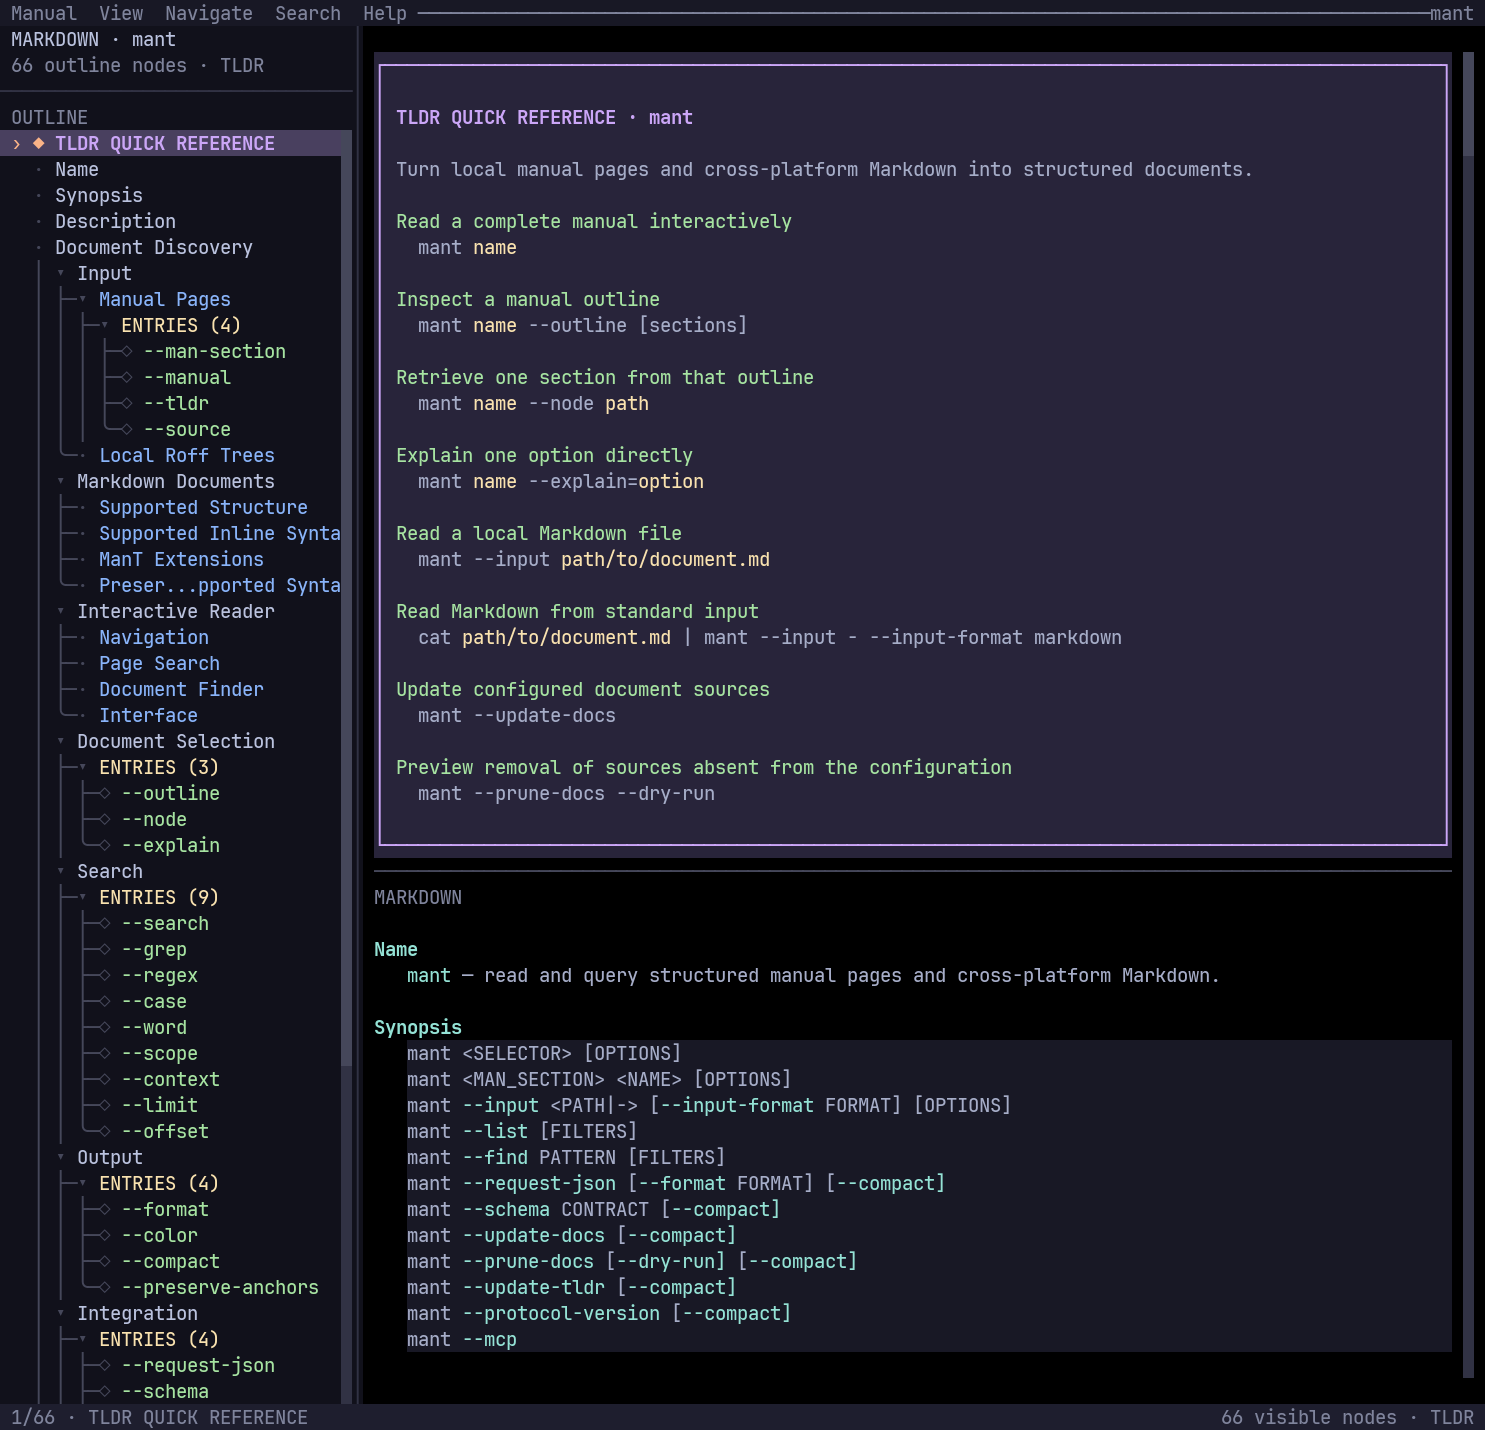
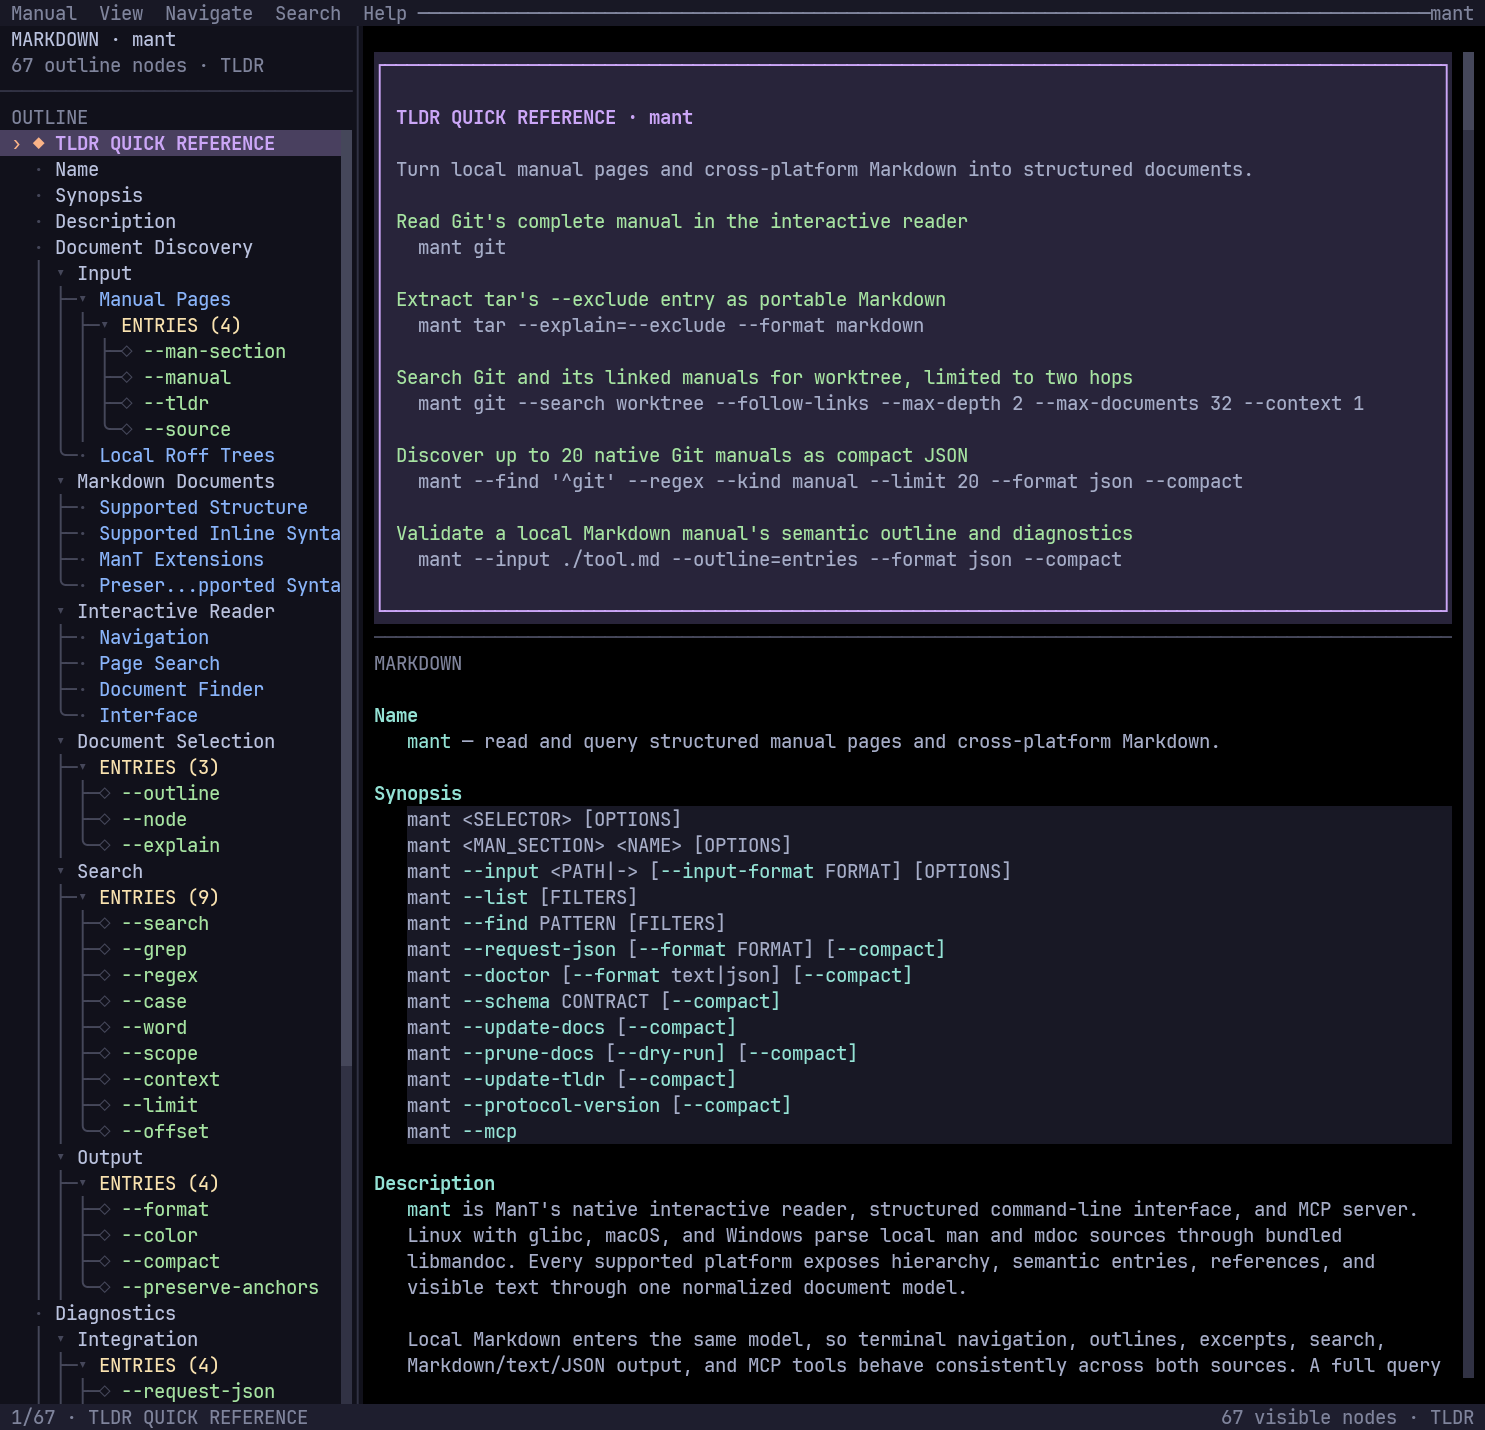
docs(manuals): streamline self-hosted guidance

diff --git a/crates/mant-engine/tests/self_manuals.rs b/crates/mant-engine/tests/self_manuals.rs
@@ -4,7 +4,7 @@ use mant_engine::{
     build_outline_with_detail, query_markdown_text, render_markdown, render_query_text,
     select_excerpt,
 };
-use mant_ir::{TldrCommandPart, TldrOrigin};
+use mant_ir::TldrOrigin;
 use mant_protocol::{ExcerptSelection, OutlineDetail, OutlineNode};
 use pulldown_cmark::{CodeBlockKind, Event, Parser, Tag, TagEnd};
 
@@ -37,29 +37,27 @@ fn shipped_manual_parses_without_lossy_fallbacks() {
         document.diagnostics
     );
     assert_eq!(tldr.origin, TldrOrigin::Embedded);
+    let commands = tldr
+        .examples
+        .iter()
+        .map(|example| example.command.as_str())
+        .collect::<Vec<_>>();
+    assert_eq!(
+        commands,
+        [
+            "mant git",
+            "mant tar --explain=--exclude --format markdown",
+            "mant git --search worktree --follow-links --max-depth 2 --max-documents 32 --context 1",
+            "mant --find '^git' --regex --kind manual --limit 20 --format json --compact",
+            "mant --input ./tool.md --outline=entries --format json --compact",
+        ],
+        "{name} quick reference should stay concise and show complete user tasks"
+    );
     assert!(
-        tldr.examples.len() >= 4
-            && tldr
-                .examples
-                .iter()
-                .all(|example| !example.description.is_empty() && !example.command.is_empty()),
+        tldr.examples
+            .iter()
+            .all(|example| !example.description.is_empty() && !example.command.is_empty()),
         "{name} quick reference follows the tldr description/command layout"
-    );
-    assert!(
-        tldr.examples.iter().any(|example| {
-            example
-                .command_parts
-                .iter()
-                .any(|part| matches!(part, TldrCommandPart::Placeholder { .. }))
-        }),
-        "{name} uses the standard tldr placeholder syntax that drives command highlighting"
-    );
-    assert!(
-        tldr.examples.iter().any(|example| {
-            example.description == "Inspect a manual outline"
-                && example.command == "mant {{name}} --outline [sections]"
-        }),
-        "{name} quick reference exposes the section-only outline"
     );
 
     let outline =

diff --git a/docs/manuals/mant.md b/docs/manuals/mant.md
@@ -3,41 +3,25 @@
 
 > Turn local manual pages and cross-platform Markdown into structured documents.
 
-- Read a complete manual interactively:
+- Read Git's complete manual in the interactive reader:
 
-`mant {{name}}`
+`mant git`
 
-- Inspect a manual outline:
+- Extract tar's --exclude entry as portable Markdown:
 
-`mant {{name}} --outline [sections]`
+`mant tar --explain=--exclude --format markdown`
 
-- Retrieve one section from that outline:
+- Search Git and its linked manuals for worktree, limited to two hops:
 
-`mant {{name}} --node {{path}}`
+`mant git --search worktree --follow-links --max-depth 2 --max-documents 32 --context 1`
 
-- Explain one option directly:
+- Discover up to 20 native Git manuals as compact JSON:
 
-`mant {{name}} --explain={{option}}`
+`mant --find '^git' --regex --kind manual --limit 20 --format json --compact`
 
-- Read a local Markdown file:
+- Validate a local Markdown manual's semantic outline and diagnostics:
 
-`mant --input {{path/to/document.md}}`
-
-- Read Markdown from standard input:
-
-`cat {{path/to/document.md}} | mant --input - --input-format markdown`
-
-- Update configured document sources:
-
-`mant --update-docs`
-
-- Preview removal of sources absent from the configuration:
-
-`mant --prune-docs --dry-run`
-
-- Diagnose the local installation without changing it:
-
-`mant --doctor`
+`mant --input ./tool.md --outline=entries --format json --compact`
 <!-- mant:tldr:end -->
 
 # mant
@@ -550,8 +534,8 @@ exit, errors, and Rust panics.
 `--document SELECTOR` is repeatable and supplies an ordered set of initial registered documents. It is the multi-document form of the ordinary positional selector:
 
 ```sh
-mant --document git --document git-lfs --search worktree
-mant --document git --document git-config --explain core.worktree
+mant --document git --document git-lfs --search worktree --follow-links --max-depth 2 --max-documents 32
+mant --document git --document git-config --explain core.worktree --follow-links --max-depth 1 --max-documents 16
 ```
 
 `--follow-links` expands either one positional selector or the repeated `--document` set through typed manual references and same-source Markdown document links. Expansion is breadth-first in initial-document and source-link order. Exact logical addresses deduplicate cycles and diamonds. Ordinary prose resembling `name(section)`, filename prefixes such as `git-*`, page-local links, and external links never create graph edges.

diff --git a/docs/manuals/mant-markdown.md b/docs/manuals/mant-markdown.md
@@ -141,15 +141,17 @@ Markdown parsing never executes HTML, follows remote links, loads images, or rea
 
 Use one H1 document title followed by H2 manual sections and deeper headings only where they improve navigation. Prefer paragraphs, fenced code, ordinary lists, semantic entry lists, and tables. Use explicit relative `.md` links for cross-document navigation and explicit heading IDs only when a stable human-authored fragment is important.
 
-Run these checks while authoring:
+Use these focused checks while authoring:
 
 ```sh
-mant --input ./tool.md --outline=entries
-mant --input ./tool.md --format json --compact
-mant --input ./tool.md --search warning
+mant --input ./tool.md --outline=entries --format json --compact
+mant --input ./tool.md --search warning --word --context 1 --format markdown
 ```
 
-An empty `diagnostics` array confirms that the document stayed inside the supported semantic subset.
+The first command exposes the addressable outline and any diagnostics in one
+machine-readable result. The second verifies how a reader sees a specific term
+with its surrounding context. An empty `diagnostics` array confirms that the
+document stayed inside the supported semantic subset.
 
 ## See Also
 

diff --git a/docs/manuals/mant-roff.md b/docs/manuals/mant-roff.md
@@ -246,7 +246,8 @@ For manuals intended to work across mandoc, groff, and ManT:
 2. Use `Xr` or `MR` for cross-manual links, `Sx` for mdoc section links, and `Lk`/`UR` for external links.
 3. Use `Bl`/`It`, `TP`/`IP`, `Bd`, `EX`/`EE`, `tbl`, and `eqn` only where their retained structure matters.
 4. Avoid relying on device geometry, page traps, custom diversions, color, point size, or arbitrary file inclusion.
-5. Inspect the normalized result and diagnostics with `mant --input PAGE --format json`.
+5. Inspect a concrete normalized outline and its diagnostics with
+   `mant --input ./widget.1 --input-format roff --outline=entries --format json --compact`.
 
 ## Upstream References
 

diff --git a/docs/manuals/mant-ir.md b/docs/manuals/mant-ir.md
@@ -145,7 +145,7 @@ Add the crate when implementing an in-process parser, index, renderer, or truste
 
 ```toml
 [dependencies]
-mant-ir = "0.7"
+mant-ir = "0.8"
 ```
 
 Prefer constructors and visitors from the crate over recursively rewriting public fields by hand. Use `visit::Visit` or `visit::VisitMut` for whole-document passes and run validation after transformations that can affect identities or links.
